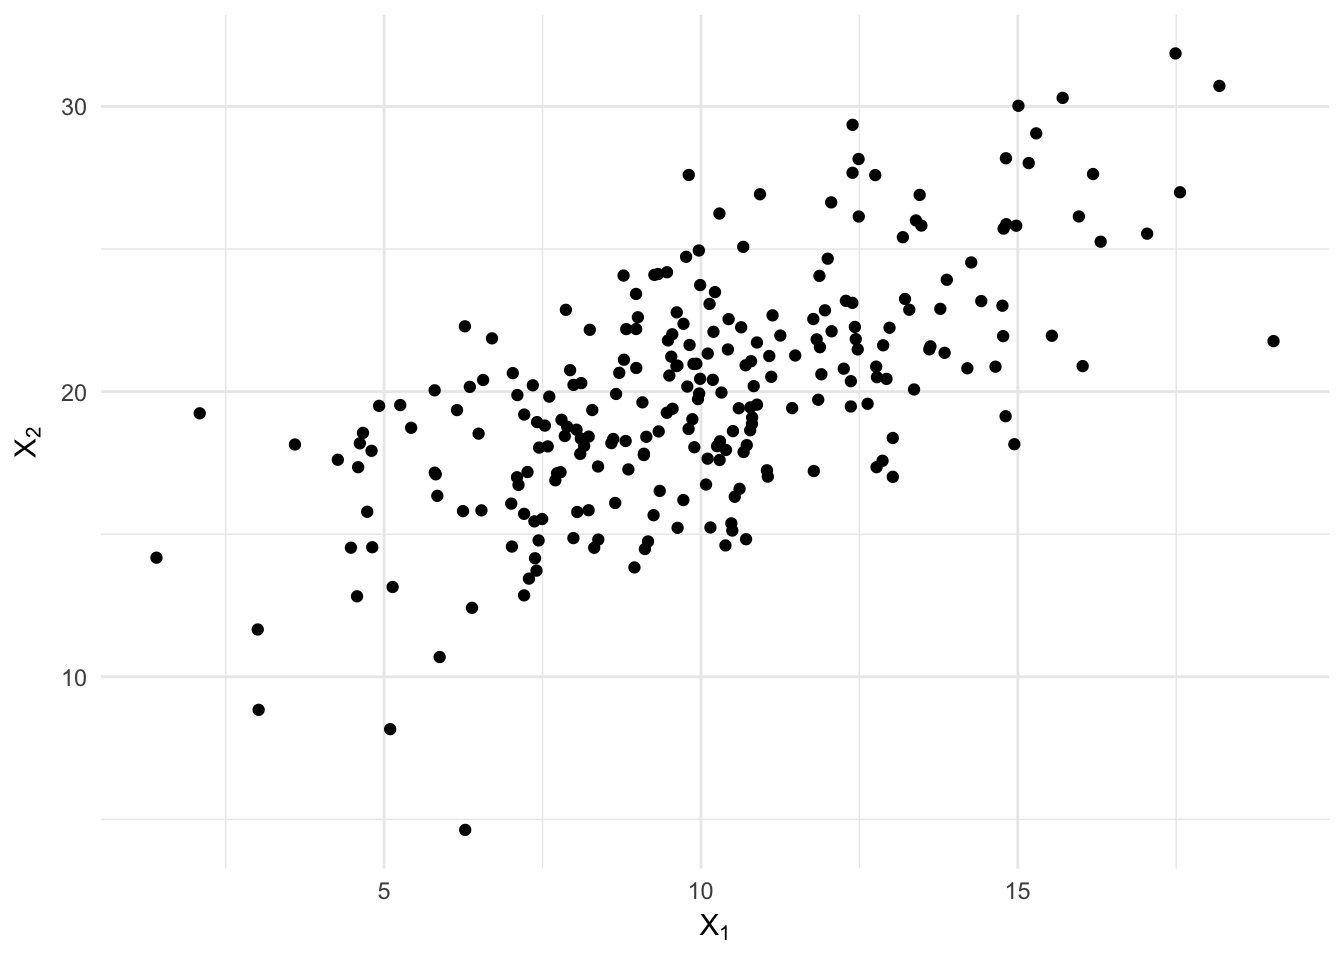
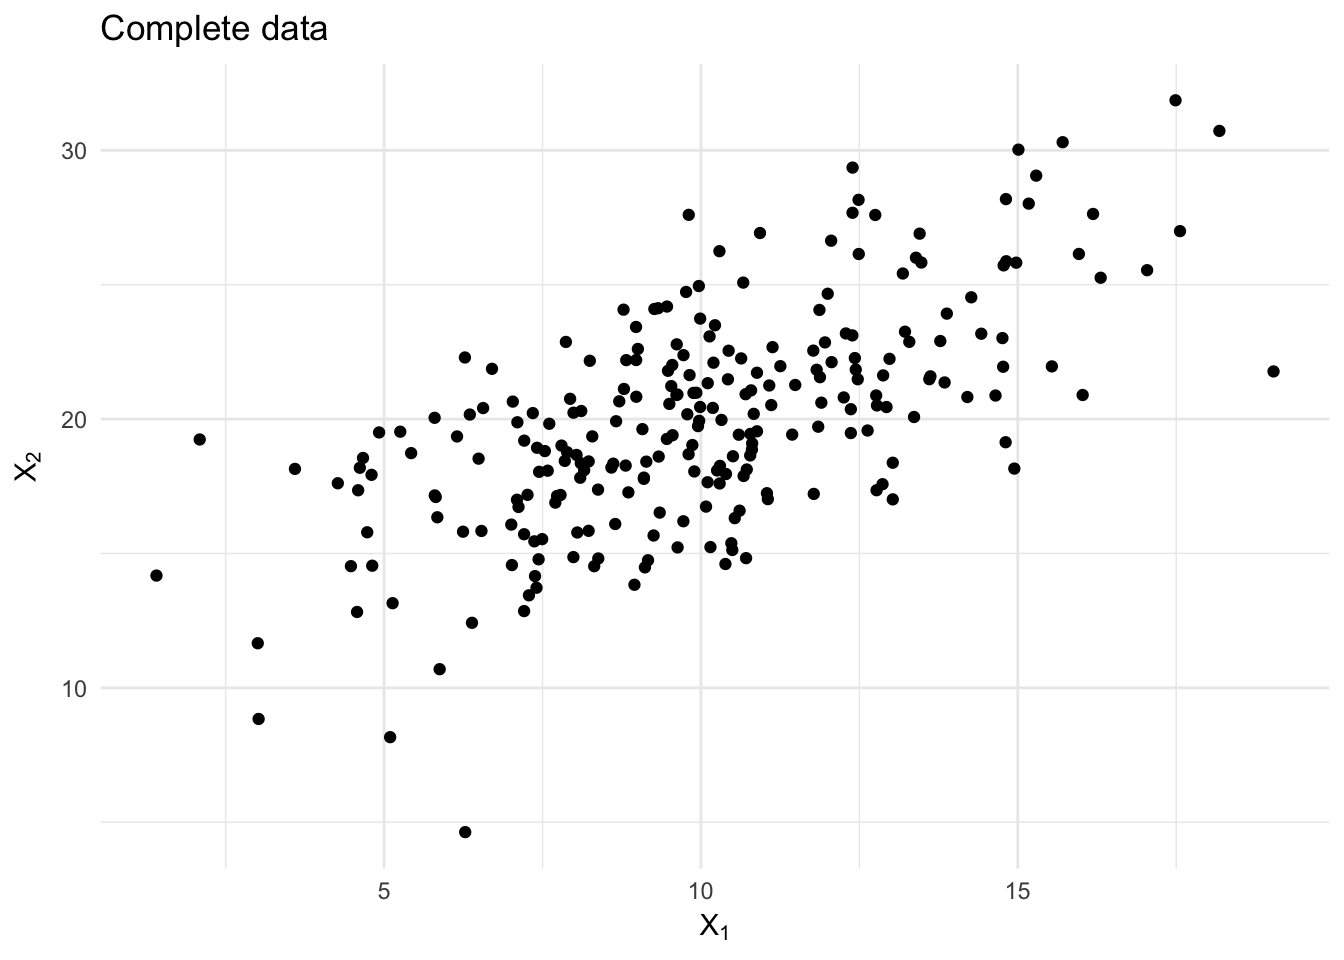
Add title to graph in missing data notes

diff --git a/persp014_missing_data.html b/persp014_missing_data.html
@@ -473,7 +473,8 @@ data_sim &lt;-<span class="st"> </span>MASS::<span class="kw">mvrnorm</span>(n_s
 <div class="sourceCode"><pre class="sourceCode r"><code class="sourceCode r"><span class="co"># plot of data</span>
 <span class="kw">ggplot</span>(data_sim, <span class="kw">aes</span>(x1, x2)) +
 <span class="st">  </span><span class="kw">geom_point</span>() +
-<span class="st">  </span><span class="kw">labs</span>(<span class="dt">x =</span> <span class="kw">expression</span>(X[<span class="dv">1</span>]),
+<span class="st">  </span><span class="kw">labs</span>(<span class="dt">title =</span> <span class="st">&quot;Complete data&quot;</span>,
+       <span class="dt">x =</span> <span class="kw">expression</span>(X[<span class="dv">1</span>]),
        <span class="dt">y =</span> <span class="kw">expression</span>(X[<span class="dv">2</span>]))</code></pre></div>
 <p><img src="persp014_missing_data_files/figure-html/sim-mod-1.png" width="672" /></p>
 <p>What happens to the data under the three mechanisms for generating missing data?</p>
@@ -669,9 +670,8 @@ sum_stats &lt;-<span class="st"> </span><span class="kw">bind_rows</span>(
          <span class="dt">param =</span> <span class="kw">ifelse</span>(param ==<span class="st"> &quot;sigma_2&quot;</span>, <span class="st">&quot;sigma[2]^2&quot;</span>, param),
          <span class="dt">param =</span> <span class="kw">ifelse</span>(param ==<span class="st"> &quot;sigma_12&quot;</span>, <span class="st">&quot;sigma[12]&quot;</span>, param),
          <span class="dt">param =</span> <span class="kw">ifelse</span>(param ==<span class="st"> &quot;beta_12&quot;</span>, <span class="st">&quot;beta[12]&quot;</span>, param),
-         <span class="dt">param =</span> <span class="kw">ifelse</span>(param ==<span class="st"> &quot;beta_21&quot;</span>, <span class="st">&quot;beta[21]&quot;</span>, param))
-
-sum_stats %&gt;%
+         <span class="dt">param =</span> <span class="kw">ifelse</span>(param ==<span class="st"> &quot;beta_21&quot;</span>, <span class="st">&quot;beta[21]&quot;</span>, param))</code></pre></div>
+<div class="sourceCode"><pre class="sourceCode r"><code class="sourceCode r">sum_stats %&gt;%
 <span class="st">  </span><span class="kw">filter</span>(id %in%<span class="st"> </span><span class="kw">c</span>(<span class="st">&quot;mcar&quot;</span>, <span class="st">&quot;mar&quot;</span>, <span class="st">&quot;mnar&quot;</span>)) %&gt;%
 <span class="st">  </span><span class="kw">mutate</span>(<span class="dt">id =</span> <span class="kw">factor</span>(id, <span class="dt">levels =</span> <span class="kw">c</span>(<span class="st">&quot;mcar&quot;</span>, <span class="st">&quot;mar&quot;</span>, <span class="st">&quot;mnar&quot;</span>),
                      <span class="dt">labels =</span> <span class="kw">c</span>(<span class="st">&quot;MCAR&quot;</span>, <span class="st">&quot;MAR&quot;</span>, <span class="st">&quot;MNAR&quot;</span>))) %&gt;%
@@ -688,6 +688,7 @@ sum_stats %&gt;%
        <span class="dt">color =</span> <span class="ot">NULL</span>) +
 <span class="st">  </span><span class="kw">theme</span>(<span class="dt">axis.text.x =</span> <span class="kw">element_text</span>(<span class="dt">angle =</span> <span class="dv">30</span>),
         <span class="dt">legend.position =</span> <span class="st">&quot;bottom&quot;</span>)</code></pre></div>
+<p><img src="persp014_missing_data_files/figure-html/compare-imputation-plot-1.png" width="672" /></p>
 </div>
 </div>
 </div>
